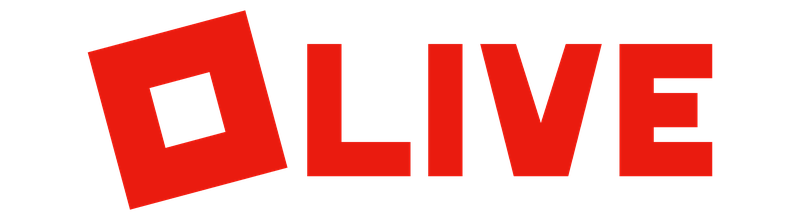
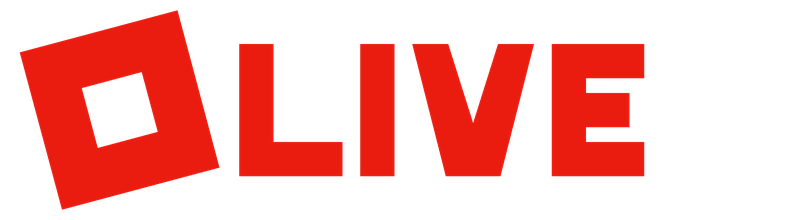
Update

diff --git a/banner.py b/banner.py
@@ -84,7 +84,7 @@ widths = [letter_L, letter_I, letter_V, letter_E]
 total = CAP * 0.78 + STROKE + CAP * 0.92 + CAP * 0.70 + GAP * 3
 
 group = sq_half * 2 + square_gap + total
-left = (W * S - group) / 2
+left = 0.025 * W * S
 cx = left + sq_half
 cursor = cx + sq_half + square_gap
 
